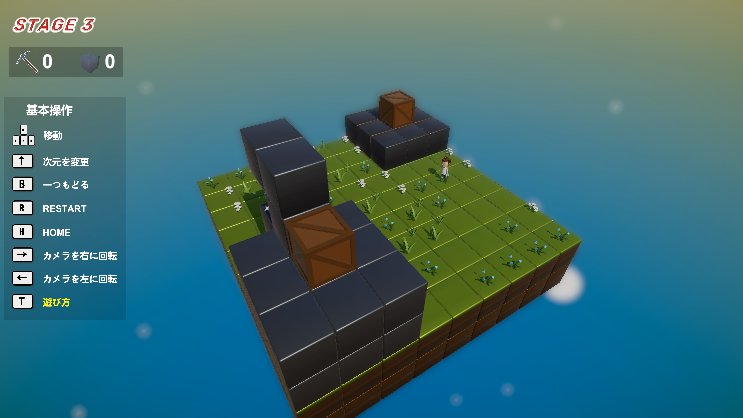
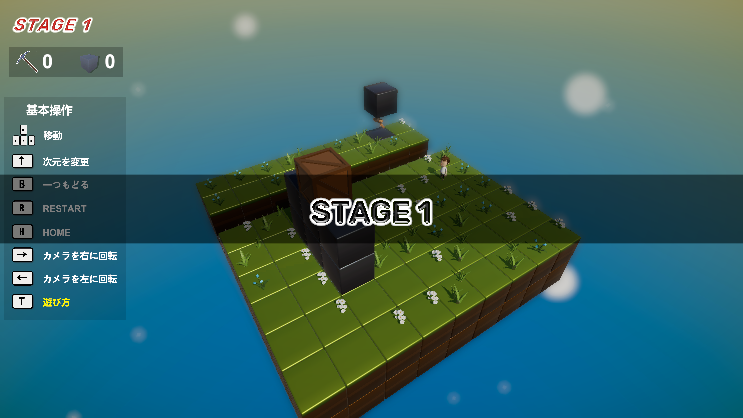
回転処理完成

diff --git a/Assets/Scripts/GameManager.cs b/Assets/Scripts/GameManager.cs
@@ -47,9 +47,6 @@ public class GameManager : MonoBehaviour
         if (SelectMode() == "EDIT") {
             mainUI.stageNumberText.text = "TEST MODE";
         }
-        if (SelectMode() == "ONLINE") {
-            mainUI.stageNumberText.text = "EVERYONE STAGE";
-        }
 
         mainUI.pickaxeText.text = player.pickaxeCount.ToString();
         mainUI.stoneText.text = player.stoneCount.ToString();
@@ -59,11 +56,13 @@ public class GameManager : MonoBehaviour
         stage = gimic.stage;
         stage.LoadStageData();
         stage.CreateStage();
-        stage.SetFirstCamera();
         player = stage.player;
         changeStage = stage.changeStage;
         mainUI = stage.mainUI;
         changeStage.GetObj();
+        if (PlayerPrefs.GetString("FIRST", "YES") == "YES") {
+            stage.SetFirstCamera();
+        }
     }
     private void Update()
     {
@@ -258,7 +257,7 @@ public class GameManager : MonoBehaviour
         //save.ClearStage(stage.stageNumber);
         mainUI.goalPanel.SetActive(true);
         stage.stageNumber++;
-        player.vc.Priority = 10;
+        player.vc.Priority = 1;
         textAnim.Initialize();
         textAnim.Play(2f);
     }
@@ -280,7 +279,7 @@ public class GameManager : MonoBehaviour
     {
         stage.fireWork.SetActive(true);
         mainUI.onlinegoalPanel.SetActive(true);
-        player.vc.Priority = 10;
+        player.vc.Priority = 1;
         textAnimonline.Initialize();
         textAnimonline.Play(2f);
     }
@@ -488,7 +487,7 @@ public class GameManager : MonoBehaviour
     private void PlayerOperation()
     {
         operation.PageUpdate();
-        if (goal || operation.Operation) return;
+        if (goal || operation.Operation || stage.rotateNow) return;
         
         // PUTWALL
         if (Input.GetKeyDown(KeyCode.Space))
@@ -654,11 +653,13 @@ public class GameManager : MonoBehaviour
         // 遷移
         if (Input.GetKeyDown(KeyCode.R))
         {
+            PlayerPrefs.SetString("FIRST", "NO");
             Sounds.instance.bgm[0].DOFade(0,0.5f);
             FadeManager.Instance.LoadScene("MainScene",0.5f);
         }
         if (Input.GetKeyDown(KeyCode.H))
         {
+            PlayerPrefs.SetString("FIRST", "YES");
             Sounds.instance.bgm[0].DOFade(0,1);
             if (SelectMode() == "EDIT") {
                 FadeManager.Instance.LoadScene("EditScene",1f);
@@ -689,14 +690,19 @@ public class GameManager : MonoBehaviour
             mainUI.EndStage();
             return;
         }
+        PlayerPrefs.SetString("FIRST", "YES");
         StartCoroutine(StageUpdate());
     }
     // ステージの更新
     private IEnumerator StageUpdate() //ステージの更新
     {
         mainUI.ShowBlackPanel();
+        yield return new WaitForSeconds(0.5f);
+        player.vc.Priority = 0;
+        changeStage.virtualCamera[0].Priority = 1;
         // 暗転時間1秒
         yield return new WaitForSeconds(1f);
+        
         // ステージの初期化
         yield return new WaitUntil(() => StageInitialize());
         // MESHを受け取る
@@ -709,7 +715,7 @@ public class GameManager : MonoBehaviour
         PlayerPrefs.SetInt("STAGENUMBER",stage.stageNumber);
         stage.LoadStageData();
         stage.CreateStage();
-        mainUI.StageTextAnim(stage.stageNumber);
+        stage.SetFirstCamera();
         player = stage.player;
         return true;
     }

diff --git a/Assets/Scripts/StageManager.cs b/Assets/Scripts/StageManager.cs
@@ -30,7 +30,8 @@ public class StageManager : MonoBehaviour
     public GameObject key;
     public int stageNumber;
     private float cameraRotation = 120;
-    private bool rotateNow;
+    private float currentTime;
+    public bool rotateNow;
     public List<GameObject> objList = new List<GameObject>();
     public Dictionary<GameObject, Vector3Int> moveObjPositionOnTile = new Dictionary<GameObject, Vector3Int>();
 
@@ -54,6 +55,11 @@ public class StageManager : MonoBehaviour
                 string a = File.ReadAllText(path);
                 high = a.Split(new[] {'.'},System.StringSplitOptions.RemoveEmptyEntries);
             break;
+        }
+        if (SelectMode() == "ONLINE") {
+            mainUI.stageNumberText.gameObject.SetActive(false);
+            mainUI.playerStageNameText.gameObject.SetActive(true);
+            mainUI.playerStageNameText.text = MainForOnline.Instance.web.stageName;
         }
 
         // TEXTFILEの情報を読み込む
@@ -80,29 +86,6 @@ public class StageManager : MonoBehaviour
         }
     }
 
-    public void SetFirstCamera()
-    {
-        if (SelectMode() == "ONLINE") {
-            mainUI.stageNumberText.gameObject.SetActive(false);
-            mainUI.playerStageNameText.gameObject.SetActive(true);
-            mainUI.playerStageNameText.text = MainForOnline.Instance.web.stageName;
-        }
-        if (SelectMode() == "ONLINE" || SelectMode() == "DEFAULT") {
-            changeStage.cinemachineBrain.enabled = false;
-            rotateNow = true;
-        }
-    }
-    private float currentTime;
-    private void Update()
-    {
-        if (!rotateNow) return;
-        if (currentTime >= 3) {
-            changeStage.cinemachineBrain.enabled = true;
-            rotateNow = false;
-        }
-        currentTime += Time.deltaTime;
-        changeStage.cinemachineBrain.gameObject.transform.RotateAround(new Vector3(4,0,4), new Vector3(0,1,0), cameraRotation * Time.deltaTime);
-    }
     public void CreateStage()
     {
         for (int y = 0; y < tileAll.GetLength(1); y++)
@@ -164,5 +147,26 @@ public class StageManager : MonoBehaviour
         changeStage.objs = new List<GameObject>();
         fireWork.SetActive(false);
         Sounds.instance.bgm[0].Play();
+    }
+
+    public void SetFirstCamera()
+    {
+        if (SelectMode() == "ONLINE" || SelectMode() == "DEFAULT") {
+            changeStage.cinemachineBrain.enabled = false;
+            mainUI.StageTextAnim(stageNumber);
+            rotateNow = true;
+        }
+    }
+    
+    private void Update()
+    {
+        if (!rotateNow) return;
+        if (currentTime >= 3) {
+            changeStage.cinemachineBrain.enabled = true;
+            rotateNow = false;
+            currentTime = 0;
+        }
+        currentTime += Time.deltaTime;
+        changeStage.cinemachineBrain.gameObject.transform.RotateAround(new Vector3(4,0,4), new Vector3(0,1,0), cameraRotation * Time.deltaTime);
     }
 }

diff --git a/Assets/Scripts/MainUI.cs b/Assets/Scripts/MainUI.cs
@@ -11,6 +11,7 @@ public class MainUI : MonoBehaviour
     public GameObject updateText;
     public GameObject numberTextPanel;
     public TextMeshProUGUI numberText;
+    public Text playerNameText;
     public Transform[] numberTextMovePos;
     public UnityEngine.UI.Image blackImage;
     public GameObject goalPanel;
@@ -68,7 +69,7 @@ public class MainUI : MonoBehaviour
         blackImage.gameObject.SetActive(true);
         Sequence sequence = DOTween.Sequence();
         sequence.Append(blackImage.DOFade(1,0.5f).SetEase(Ease.Linear))
-                .Append(blackImage.DOFade(0,0.5f).SetEase(Ease.Linear).SetDelay(2))
+                .Append(blackImage.DOFade(0,0.5f).SetEase(Ease.Linear).SetDelay(1.5f))
                 .AppendCallback(() => blackImage.gameObject.SetActive(false));
     }
 
@@ -80,13 +81,26 @@ public class MainUI : MonoBehaviour
 
     public void StageTextAnim(int num)
     {
-        numberTextPanel.SetActive(true);
-        numberText.text = "STAGE " + (num + 1);
-        Sequence sequence = DOTween.Sequence();
-        sequence.Append(numberText.transform.DOMoveX(numberTextMovePos[0].position.x,0))
-                .Append(numberText.transform.DOMoveX(numberTextMovePos[1].position.x,0.5f))
-                .Append(numberText.transform.DOMoveX(numberTextMovePos[2].position.x,0.5f).SetDelay(2f))
-                .AppendCallback(() => numberTextPanel.SetActive(false));
+        if (PlayerPrefs.GetString("MODE") == "DEFAULT") {
+            playerNameText.gameObject.SetActive(false);
+            numberTextPanel.SetActive(true);
+            numberText.text = "STAGE " + (num + 1);
+            Sequence sequence = DOTween.Sequence();
+            sequence.Append(numberText.transform.DOMoveX(numberTextMovePos[0].position.x,0))
+                    .Append(numberText.transform.DOMoveX(numberTextMovePos[1].position.x,0.5f))
+                    .Append(numberText.transform.DOMoveX(numberTextMovePos[2].position.x,0.5f).SetDelay(2f))
+                    .AppendCallback(() => numberTextPanel.SetActive(false));
+        }
+        if (PlayerPrefs.GetString("MODE") == "ONLINE") {
+            numberText.gameObject.SetActive(false);
+            numberTextPanel.SetActive(true);
+            playerNameText.text = MainForOnline.Instance.web.stageName;
+            Sequence sequence = DOTween.Sequence();
+            sequence.Append(playerNameText.transform.DOMoveX(numberTextMovePos[0].position.x,0))
+                    .Append(playerNameText.transform.DOMoveX(numberTextMovePos[1].position.x,0.5f))
+                    .Append(playerNameText.transform.DOMoveX(numberTextMovePos[2].position.x,0.5f).SetDelay(2f))
+                    .AppendCallback(() => numberTextPanel.SetActive(false));
+        }
     }
 
     // BUTTON 0

diff --git a/Assets/Scripts/ChangeStage.cs b/Assets/Scripts/ChangeStage.cs
@@ -12,7 +12,7 @@ public class ChangeStage : MonoBehaviour
     public List<Transform> pickaxeImage;
     public List<Transform> pickaxeObj;
     [SerializeField] Camera camera2D;
-    [SerializeField] CinemachineVirtualCamera[] virtualCamera;
+    public CinemachineVirtualCamera[] virtualCamera;
     public CinemachineBrain cinemachineBrain;
     private int cameraNumber;
     private bool stage2D = false;
